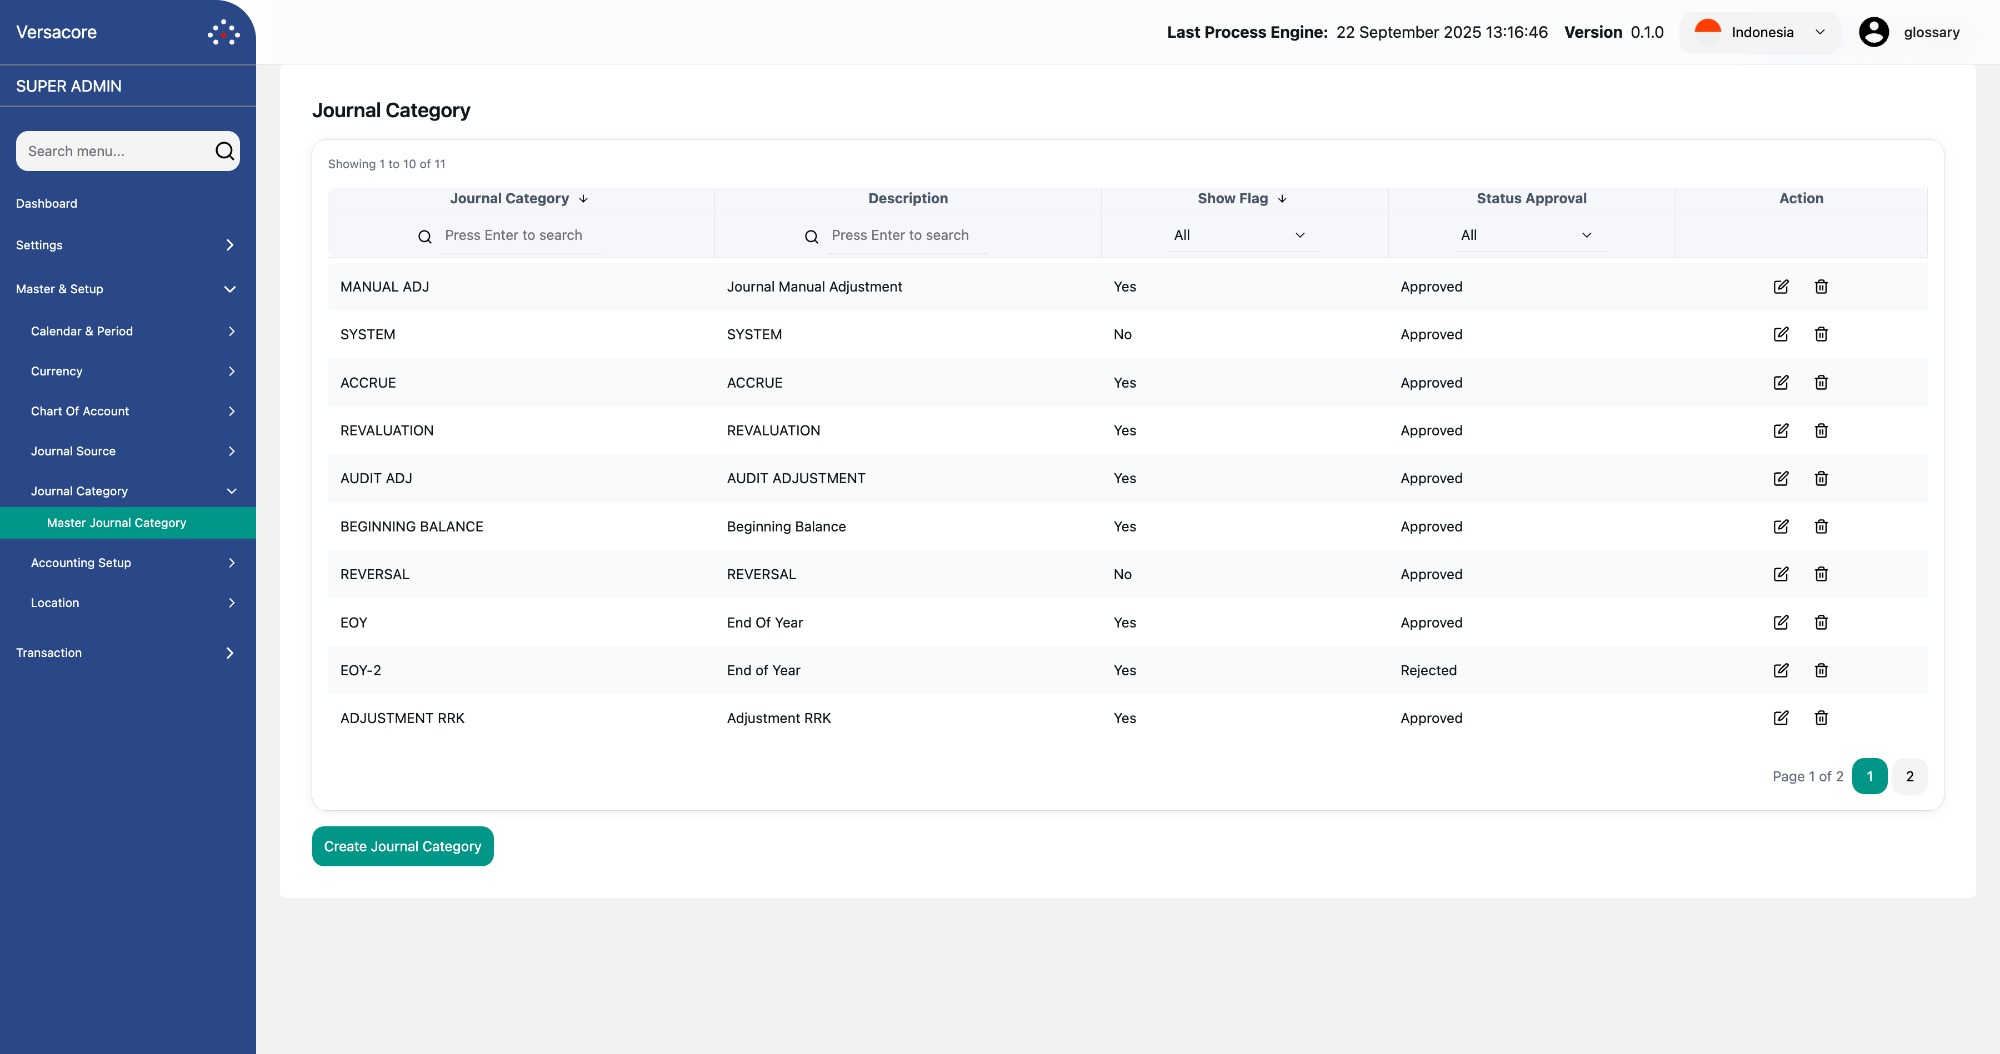
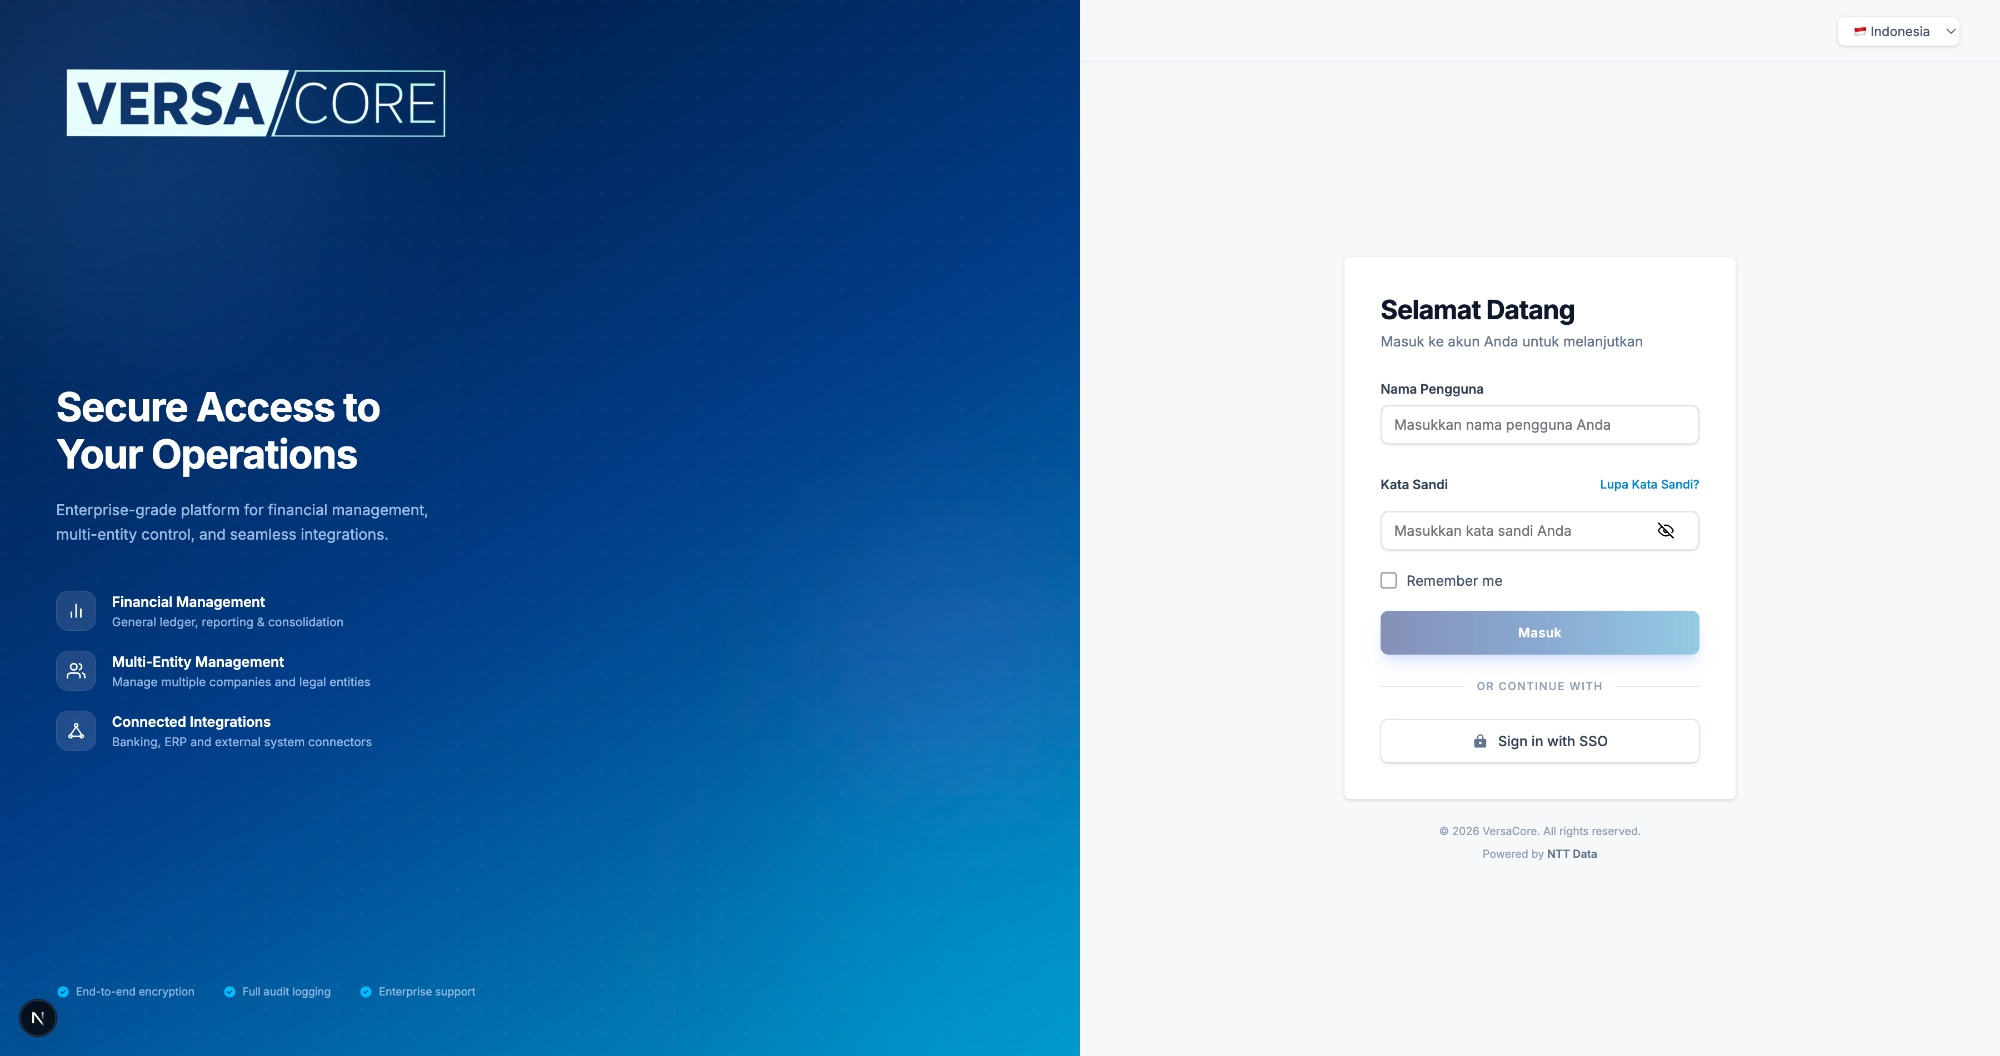
change project data

diff --git a/src/containers/projects/data.js b/src/containers/projects/data.js
@@ -2,7 +2,7 @@ import indibiz from "../../assets/indibiz.webp";
 import mytens from "../../assets/mytens.webp";
 import onedata from "../../assets/onedata.webp";
 import risbus from "../../assets/risbus.webp";
-// import versacore from "../../assets/versacore.png";
+import versacore from "../../assets/versacore.png";
 
 export const datas = [
   {
@@ -65,23 +65,23 @@ export const datas = [
     },
     frontendStack: ["Angular CLI 7", "RxJS", "ANT Design"],
   },
-  // {
-  //   title: "Versacore",
-  //   image: versacore,
-  //   description: {
-  //     en: "VersaCore is a robust ERP (Enterprise Resource Planning) application designed specifically for the finance industry. It integrates and automates financial operations, providing real-time insights into cash flow, budgets, and profitability. VersaCore helps organizations streamline processes, ensure regulatory compliance, and support growth with scalable tools for managing complex financial tasks.",
-  //     id: "VersaCore adalah aplikasi ERP (Enterprise Resource Planning) yang robust dan dirancang khusus untuk industri keuangan. Aplikasi ini mengintegrasikan dan mengotomatisasi operasi keuangan, memberikan wawasan real-time tentang arus kas, anggaran, dan profitabilitas. VersaCore membantu organisasi menyederhanakan proses, memastikan kepatuhan regulasi, dan mendukung pertumbuhan dengan alat yang dapat diskalakan untuk mengelola tugas-tugas keuangan yang kompleks."
-  //   },
-  //   frontendStack: [
-  //     "Next 15",
-  //     "Hero UI",
-  //     "Tailwind CSS",
-  //     "Formik",
-  //     "Yup",
-  //     "Redux",
-  //     "Redux Toolkit Query",
-  //     "Jest",
-  //     "axios",
-  //   ],
-  // },
+  {
+    title: "Versacore",
+    image: versacore,
+    description: {
+      en: "VersaCore is a robust ERP (Enterprise Resource Planning) application designed specifically for the finance industry. It integrates and automates financial operations, providing real-time insights into cash flow, budgets, and profitability. VersaCore helps organizations streamline processes, ensure regulatory compliance, and support growth with scalable tools for managing complex financial tasks.",
+      id: "VersaCore adalah aplikasi ERP (Enterprise Resource Planning) yang robust dan dirancang khusus untuk industri keuangan. Aplikasi ini mengintegrasikan dan mengotomatisasi operasi keuangan, memberikan wawasan real-time tentang arus kas, anggaran, dan profitabilitas. VersaCore membantu organisasi menyederhanakan proses, memastikan kepatuhan regulasi, dan mendukung pertumbuhan dengan alat yang dapat diskalakan untuk mengelola tugas-tugas keuangan yang kompleks."
+    },
+    frontendStack: [
+      "Next 15",
+      "Hero UI",
+      "Tailwind CSS",
+      "Formik",
+      "Yup",
+      "Redux",
+      "Redux Toolkit Query",
+      "Jest",
+      "axios",
+    ],
+  },
 ];
